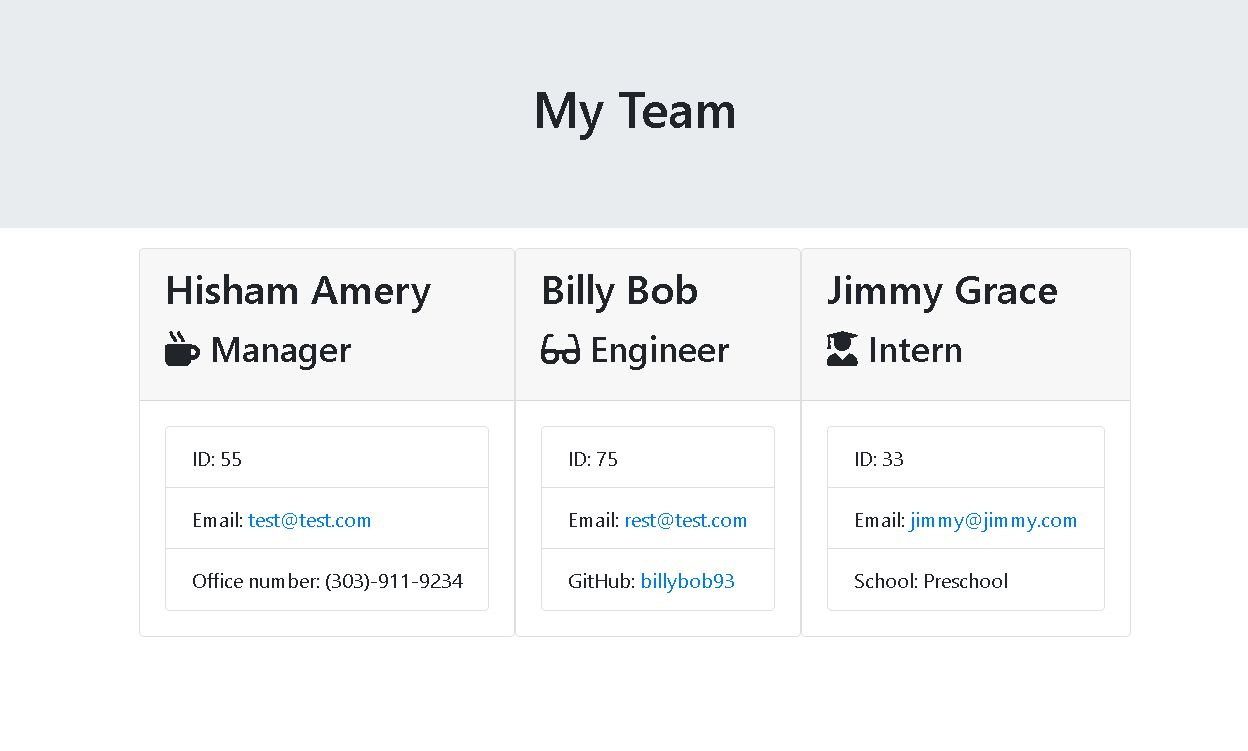
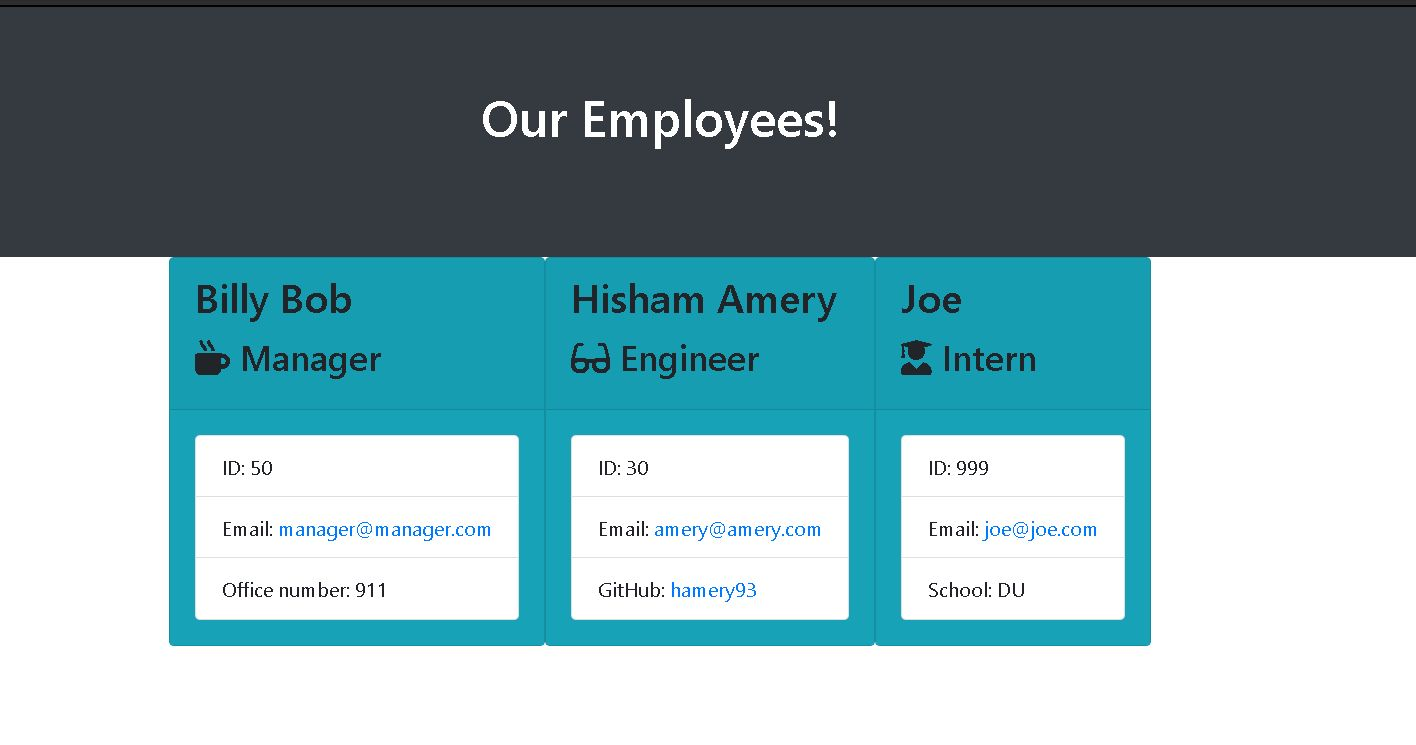
Added styling, minor syntax fixes

diff --git a/Develop/Output/team.html b/Develop/Output/team.html
@@ -13,52 +13,52 @@
 </head>
 
 <body>
-    <div class="container-fluid">
+    <div class="container-fluid bg-dark text-white">
         <div class="row">
-            <div class="col-12 jumbotron mb-3 team-heading">
-                <h1 class="text-center">My Team</h1>
+            <div class="col-12 jumbotron mb-3 team-heading bg-dark text-white">
+                <h1 class="text-center">Our Employees!</h1>
             </div>
         </div>
     </div>
     <div class="container">
         <div class="row">
             <div class="team-area col-12 d-flex justify-content-center">
-                <div class="card employee-card">
-    <div class="card-header">
-        <h2 class="card-title">Hisham Amery</h2>
-        <h3 class="card-title"><i class="fas fa-mug-hot mr-2"></i>Manager</h3>
-    </div>
-    <div class="card-body">
-        <ul class="list-group">
-            <li class="list-group-item">ID: 55</li>
-            <li class="list-group-item">Email: <a href="mailto:test@test.com">test@test.com</a></li>
-            <li class="list-group-item">Office number: (303)-911-9234</li>
-        </ul>
-    </div>
-</div>
-<div class="card employee-card">
+                <div class="card employee-card bg-info">
     <div class="card-header">
         <h2 class="card-title">Billy Bob</h2>
-        <h3 class="card-title"><i class="fas fa-glasses mr-2"></i>Engineer</h3>
+        <h3 class="card-title"><i class="fas fa-mug-hot mr-2"></i>Manager</h3>
     </div>
-    <div class="card-body">
+    <div class="card-body bg-info">
         <ul class="list-group">
-            <li class="list-group-item">ID: 75</li>
-            <li class="list-group-item">Email: <a href="mailto:rest@test.com">rest@test.com</a></li>
-            <li class="list-group-item">GitHub: <a href="https://github.com/billybob93" target="_blank" rel="noopener noreferrer">billybob93</a></li>
+            <li class="list-group-item">ID: 50</li>
+            <li class="list-group-item">Email: <a href="mailto:manager@manager.com">manager@manager.com</a></li>
+            <li class="list-group-item">Office number: 911</li>
         </ul>
     </div>
 </div>
-<div class="card employee-card">
+<div class="card employee-card bg-info">
     <div class="card-header">
-        <h2 class="card-title">Jimmy Grace</h2>
+        <h2 class="card-title">Hisham Amery</h2>
+        <h3 class="card-title"><i class="fas fa-glasses mr-2"></i>Engineer</h3>
+    </div>
+    <div class="card-body bg-info">
+        <ul class="list-group">
+            <li class="list-group-item">ID: 30</li>
+            <li class="list-group-item">Email: <a href="mailto:amery@amery.com">amery@amery.com</a></li>
+            <li class="list-group-item">GitHub: <a href="https://github.com/hamery93" target="_blank" rel="noopener noreferrer">hamery93</a></li>
+        </ul>
+    </div>
+</div>
+<div class="card employee-card bg-info">
+    <div class="card-header">
+        <h2 class="card-title">Joe</h2>
         <h3 class="card-title"><i class="fas fa-user-graduate mr-2"></i>Intern</h3>
     </div>
-    <div class="card-body">
+    <div class="card-body bg-info">
         <ul class="list-group">
-            <li class="list-group-item">ID: 33</li>
-            <li class="list-group-item">Email: <a href="mailto:jimmy@jimmy.com">jimmy@jimmy.com</a></li>
-            <li class="list-group-item">School: Preschool</li>
+            <li class="list-group-item">ID: 999</li>
+            <li class="list-group-item">Email: <a href="mailto:joe@joe.com">joe@joe.com</a></li>
+            <li class="list-group-item">School: DU</li>
         </ul>
     </div>
 </div>

diff --git a/Develop/templates/intern.html b/Develop/templates/intern.html
@@ -1,9 +1,9 @@
-<div class="card employee-card">
+<div class="card employee-card bg-info">
     <div class="card-header">
         <h2 class="card-title">{{ name }}</h2>
         <h3 class="card-title"><i class="fas fa-user-graduate mr-2"></i>{{ role }}</h3>
     </div>
-    <div class="card-body">
+    <div class="card-body bg-info">
         <ul class="list-group">
             <li class="list-group-item">ID: {{ id }}</li>
             <li class="list-group-item">Email: <a href="mailto:{{ email }}">{{ email }}</a></li>

diff --git a/Develop/templates/engineer.html b/Develop/templates/engineer.html
@@ -1,9 +1,9 @@
-<div class="card employee-card">
+<div class="card employee-card bg-info">
     <div class="card-header">
         <h2 class="card-title">{{ name }}</h2>
         <h3 class="card-title"><i class="fas fa-glasses mr-2"></i>{{ role }}</h3>
     </div>
-    <div class="card-body">
+    <div class="card-body bg-info">
         <ul class="list-group">
             <li class="list-group-item">ID: {{ id }}</li>
             <li class="list-group-item">Email: <a href="mailto:{{ email }}">{{ email }}</a></li>

diff --git a/Develop/templates/manager.html b/Develop/templates/manager.html
@@ -1,9 +1,9 @@
-<div class="card employee-card">
+<div class="card employee-card bg-info">
     <div class="card-header">
         <h2 class="card-title">{{ name }}</h2>
         <h3 class="card-title"><i class="fas fa-mug-hot mr-2"></i>{{ role }}</h3>
     </div>
-    <div class="card-body">
+    <div class="card-body bg-info">
         <ul class="list-group">
             <li class="list-group-item">ID: {{ id }}</li>
             <li class="list-group-item">Email: <a href="mailto:{{ email }}">{{ email }}</a></li>

diff --git a/Develop/templates/main.html b/Develop/templates/main.html
@@ -13,10 +13,10 @@
 </head>
 
 <body>
-    <div class="container-fluid">
+    <div class="container-fluid bg-dark text-white">
         <div class="row">
-            <div class="col-12 jumbotron mb-3 team-heading">
-                <h1 class="text-center">My Team</h1>
+            <div class="col-12 jumbotron mb-3 team-heading bg-dark text-white">
+                <h1 class="text-center">Our Employees!</h1>
             </div>
         </div>
     </div>

diff --git a/Develop/app.js b/Develop/app.js
@@ -9,7 +9,7 @@ const OUTPUT_DIR = path.resolve(__dirname, "output");
 const outputPath = path.join(OUTPUT_DIR, "team.html");
 
 const render = require("./lib/htmlRenderer");
-const employees = [];
+const employees = []; //array used to hold employees
 
 
 
